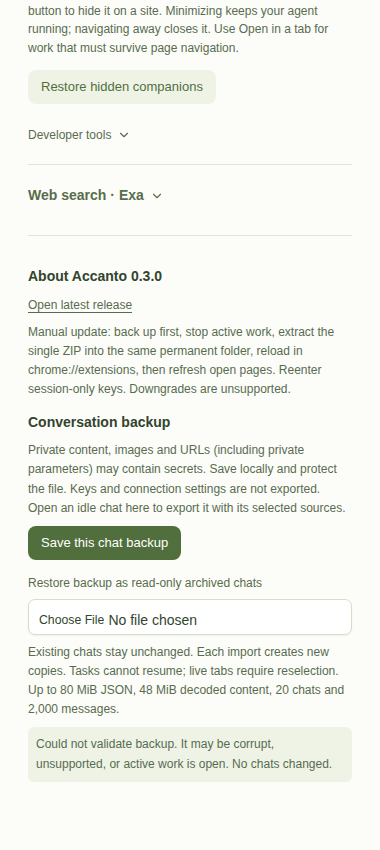
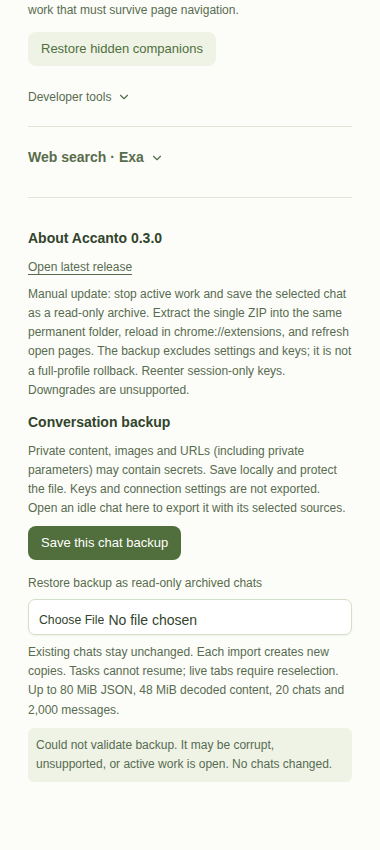
Polish archived chat reading and backup confirmation

diff --git a/backup-ui.js b/backup-ui.js
@@ -3,6 +3,8 @@ import { importArchives } from './archives.js';
 import { imageDimensions } from './attachments.js';
 import { readPdf } from './pdf-reader.js';
 
+const counted = (count, noun) => `${count} ${noun}${count === 1 ? '' : 's'}`;
+
 export async function inspectPortableSource({ kind, mime, bytes }) {
   if (kind === 'text') {
     const text = new TextDecoder('utf-8', { fatal: true }).decode(bytes);
@@ -61,7 +63,7 @@ export function backupUI({ embedded, currentId, busy, setBusy, snapshot, refresh
         const link = document.createElement('a');
         link.href = url; link.download = 'accanto-conversation.json'; link.click();
         setTimeout(() => URL.revokeObjectURL(url), 60000);
-        status(`Backup download ready: 1 conversation, ${chat.messages.length} messages, ${chat.sources.length} sources. Check browser downloads to confirm it was saved.`);
+        status(`Backup download ready: 1 conversation, ${counted(chat.messages.length, 'message')}, ${counted(chat.sources.length, 'source')}. Check browser downloads to confirm it was saved.`);
       });
     } catch (error) { status(error.message); }
   };
@@ -75,7 +77,8 @@ export function backupUI({ embedded, currentId, busy, setBusy, snapshot, refresh
         if (file.size > BACKUP_LIMITS.bytes) throw new Error('Backup exceeds 80 MiB.');
         pending = await validateBackup(JSON.parse(await file.text()), inspectPortableSource);
         const chats = pending.conversations;
-        status(`Ready: ${chats.length} conversations, ${chats.reduce((n, c) => n + c.messages.length, 0)} messages, ${chats.reduce((n, c) => n + c.sources.length, 0)} sources. Import as new read-only archives?`);
+        status(`Ready: ${counted(chats.length, 'conversation')}, ${counted(chats.reduce((n, c) => n + c.messages.length, 0), 'message')}, ${counted(chats.reduce((n, c) => n + c.sources.length, 0), 'source')}. Import as ${chats.length === 1 ? 'a new read-only archive' : 'new read-only archives'}?`);
+        $('import-backup').textContent = `Import ${counted(chats.length, 'archived chat')}`;
         $('confirm-import').hidden = false;
       });
     } catch { status('Could not validate backup. It may be corrupt, unsupported, or active work is open. No chats changed.'); }
@@ -90,9 +93,9 @@ export function backupUI({ embedded, currentId, busy, setBusy, snapshot, refresh
         const backup = pending, count = backup.conversations.length;
         await importArchives(backup);
         pending = undefined; $('confirm-import').hidden = true;
-        status(`Imported ${count} read-only archived conversations. Existing chats unchanged.`);
+        status(`Imported ${counted(count, 'read-only archived conversation')}. Existing chats unchanged.`);
         try { await refresh(); }
-        catch { status(`Imported ${count} read-only archived conversations. Open a new Accanto tab to refresh History.`); }
+        catch { status(`Imported ${counted(count, 'read-only archived conversation')}. Open a new Accanto tab to refresh History.`); }
       });
     } catch (error) { status(error.message); }
   };
@@ -102,25 +105,52 @@ export function renderArchive(chat) {
   const transcript = document.getElementById('transcript');
   transcript.classList.add('archived');
   transcript.replaceChildren();
+  const references = new Map(chat.sources.map((source, index) => [source.id, { name: source.name, anchor: `archived-source-${index}` }]));
+  const appendText = (element, text) => {
+    let offset = 0;
+    for (const match of text.matchAll(/\[([a-zA-Z0-9_-]+)\]/g)) {
+      const reference = references.get(match[1]);
+      if (!reference) continue;
+      element.append(document.createTextNode(text.slice(offset, match.index)));
+      const link = document.createElement('a');
+      link.textContent = `[${reference.name}]`; link.href = `#${reference.anchor}`;
+      link.onclick = event => { event.preventDefault(); document.getElementById(reference.anchor).scrollIntoView({ block: 'start' }); };
+      element.append(link); offset = match.index + match[0].length;
+    }
+    element.append(document.createTextNode(text.slice(offset)));
+  };
+  let activity, activityCount = 0;
   for (const m of chat.messages) {
+    const tool = m.role === 'toolResult' || m.role === 'assistant' && m.blocks.some(b => b.type === 'text' && b.text.startsWith('Tool: '));
+    if (tool && !activity) {
+      activity = document.createElement('details'); activity.className = 'turn-activity';
+      activity.append(document.createElement('summary')); transcript.append(activity);
+      activityCount = 0;
+    } else if (!tool) activity = undefined;
     const article = document.createElement('article');
-    article.className = m.role;
-    const label = document.createElement('strong'); label.textContent = m.role;
+    article.className = tool ? 'activity' : m.role;
+    const label = document.createElement('strong');
+    label.textContent = tool ? m.role === 'toolResult' ? 'Tool result' : 'Tool request' : m.role === 'user' ? 'You' : 'Pi Accanto';
+    if (!tool) label.className = 'message-label';
     article.append(label);
     for (const b of m.blocks) {
       if (b.type === 'text') {
-        const p = document.createElement('pre'); p.style.whiteSpace = 'pre-wrap'; p.textContent = b.text; article.append(p);
+        const p = document.createElement('pre'); p.style.whiteSpace = 'pre-wrap'; appendText(p, b.text); article.append(p);
       } else {
         const image = document.createElement('img');
         image.alt = 'Archived message image'; image.src = `data:${b.mime};base64,${b.data}`; image.style.maxWidth = '100%'; article.append(image);
       }
     }
-    transcript.append(article);
+    if (tool) {
+      activity.firstChild.textContent = `Archived activity · ${counted(++activityCount, 'record')}`;
+      activity.append(article);
+    } else transcript.append(article);
   }
   const heading = document.createElement('h2'); heading.textContent = 'Archived sources'; transcript.append(heading);
-  for (const source of chat.sources) {
+  for (const [index, source] of chat.sources.entries()) {
     const section = document.createElement('section');
-    const name = document.createElement('p'); name.textContent = `${source.name} [${source.id}]`; section.append(name);
+    section.id = `archived-source-${index}`;
+    const name = document.createElement('p'); name.textContent = source.name; section.append(name);
     if (source.kind === 'tab') {
       const note = document.createElement('p'); note.textContent = `${source.url} · Unavailable reference. Reselect the tab in a new chat.`; section.append(note);
     } else {
@@ -133,6 +163,8 @@ export function renderArchive(chat) {
       section.append(button);
       if (source.kind === 'pdf') {
         const page = document.createElement('input'); page.type = 'number'; page.min = '1'; page.max = String(source.pages); page.value = '1'; page.setAttribute('aria-label', `Physical page of ${source.name}`);
+        const pageControl = document.createElement('label'); pageControl.className = 'archive-page-control';
+        pageControl.append('Page ', page, ` of ${source.pages}`);
         const read = document.createElement('button'); read.type = 'button'; read.textContent = 'Read PDF page text';
         const output = document.createElement('pre'); output.style.whiteSpace = 'pre-wrap'; output.setAttribute('role', 'status');
         read.onclick = async () => {
@@ -140,12 +172,12 @@ export function renderArchive(chat) {
           try {
             const n = Number(page.value);
             if (!Number.isInteger(n) || n < 1 || n > source.pages) throw new Error('Choose a valid physical page.');
-            const result = await readPdf(decode(source.data, 16 * 1024 * 1024), n, AbortSignal.timeout(30000));
-            output.textContent = JSON.stringify(result, null, 2);
+            const result = await readPdf(decode(source.data, 16 * 1024 * 1024), n, AbortSignal.timeout(30000), { page_count: 1 });
+            output.textContent = result.pages.map(page => `Page ${page.page} of ${result.totalPages}\n${page.text || 'No native text on this page.'}${page.truncated ? '\nText limit reached; this page is only partially shown.' : ''}`).join('\n\n');
           } catch (error) { output.textContent = error.message; }
           finally { read.disabled = false; }
         };
-        section.append(page, read, output);
+        section.append(pageControl, read, output);
       }
       if (source.kind === 'image') {
         const details = document.createElement('details'), summary = document.createElement('summary'), image = document.createElement('img');

diff --git a/panel.html b/panel.html
@@ -57,7 +57,7 @@
       <section class="portable-section" aria-label="About and backups">
         <h2>About Accanto <span id="installed-version"></span></h2>
         <p><a href="https://github.com/lsj5031/pi-accanto/releases/latest" target="_blank" rel="noopener noreferrer">Open latest release</a></p>
-        <p>Manual update: back up first, stop active work, extract the single ZIP into the same permanent folder, reload in chrome://extensions, then refresh open pages. Reenter session-only keys. Downgrades are unsupported.</p>
+        <p>Manual update: stop active work and save the selected chat as a read-only archive. Extract the single ZIP into the same permanent folder, reload in chrome://extensions, and refresh open pages. The backup excludes settings and keys; it is not a full-profile rollback. Reenter session-only keys. Downgrades are unsupported.</p>
         <div id="portable-controls" hidden>
           <h2>Conversation backup</h2>
           <p>Private content, images and URLs (including private parameters) may contain secrets. Save locally and protect the file. Keys and connection settings are not exported. Open an idle chat here to export it with its selected sources.</p>
@@ -65,8 +65,8 @@
           <label for="backup-file">Restore backup as read-only archived chats</label>
           <input id="backup-file" type="file" accept=".json,application/json">
           <p>Existing chats stay unchanged. Each import creates new copies. Tasks cannot resume; live tabs require reselection. Up to 80 MiB JSON, 48 MiB decoded content, 20 chats and 2,000 messages.</p>
-          <div id="confirm-import" hidden><button type="button" id="import-backup">Import new archives</button><button type="button" id="cancel-import">Cancel</button></div>
           <p id="backup-status" role="status" aria-live="polite"></p>
+          <div id="confirm-import" hidden><button type="button" id="import-backup">Import archived chats</button><button type="button" id="cancel-import">Cancel</button></div>
         </div>
       </section>
       </div>

diff --git a/panel.css b/panel.css
@@ -95,8 +95,13 @@ svg { width: 18px; height: 18px; fill: none; stroke: currentColor; stroke-width:
 .portable-section a { text-decoration: underline; text-underline-offset: 3px; }
 #backup-status { padding: 8px; border-radius: 6px; background: var(--secondary); }
 #backup-status:empty { display: none; }
+#confirm-import { display: flex; flex-wrap: wrap; gap: 8px; margin-top: 10px; }
+#transcript.archived { padding-bottom: 40px; scroll-padding-bottom: 40px; }
 #transcript.archived section { padding: 12px 0; border-bottom: 1px solid var(--line); overflow-wrap: anywhere; }
 #transcript.archived pre { font: inherit; margin: 8px 0; }
+#transcript.archived a { text-decoration: underline; text-underline-offset: 3px; }
+.archive-page-control { display: flex; align-items: center; gap: 8px; margin: 12px 0 8px; }
+.archive-page-control input { width: 5em; padding: 6px 8px; border: 1px solid var(--border); border-radius: 6px; background: white; }
 #settings h2 { font-size: 14px; font-weight: 600; }
 :is(#settings, #search-settings) p { font-size: 12px; color: var(--muted); overflow-wrap: anywhere; margin-top: 7px; }
 #settings .access-heading { margin-top: 22px; padding-top: 18px; border-top: 1px solid var(--line); }

diff --git a/docs/verification/distribution.md b/docs/verification/distribution.md
@@ -113,7 +113,7 @@ deleted separately.
 
 ## Evidence
 
-Final Linux run on 2026-11-12 passed `npm run package`, release preparation and
+Baseline Linux run for `678a7c2` on 2026-11-12 passed `npm run package`, release preparation and
 checksum re-verification, `test:release` (3), existing `test:distribution` (4),
 `test:permissions` (2), `test:panel-state` (5), `test:identity` (1), and complete
 `test:fixtures`: browser controls, conversations, PDFs including visual/timeout
@@ -121,7 +121,7 @@ checks, research, companion, attachments/geometry, and portable schema (4) plus
 real Chromium restore. No required fixture was skipped. The PDF visual check
 completed in 38.87 seconds, including its deliberate 30-second timeout.
 
-Local candidate ZIP SHA-256, not a published asset:
+Baseline candidate ZIP SHA-256, not a published asset:
 
 ```text
 33c5e406fe6f3858a2d27b2afdb5ca1e0bb9752fbf035deedfee1c5e47939e10  pi-accanto-0.3.0.zip
@@ -178,6 +178,66 @@ visually. The local Playwright interaction trace is
 ![Local export success](distribution/backup-success.png)
 ![Safe unsupported-backup error](distribution/backup-error.png)
 ![Restored read-only history and sources](distribution/restored-archive.png)
+
+## Independent review corrections
+
+Independent screenshot review of `678a7c2` identified real archive/Settings UX
+issues. This follow-up is limited to presentation and copy. The portable schema,
+stored source IDs and bytes, atomic import, credential exclusions, release
+workflow and normal composer behavior are unchanged. The scripted fixture's
+“Run check” composer text is intentional test data, not a product defect.
+No Delete control was added; deletion remains outside this scoped correction.
+
+| Before | After | Why |
+| --- | --- | --- |
+| Counts below adjacent action buttons, “1 conversations” | Summary above 8px-spaced actions; “Import 1 archived chat”; singular/plural counts | Review the import before committing |
+| Raw roles, fixture tool names and source UUID headings | Normal message styling, collapsed “Archived activity”, source names | History should read like a chat, not a database dump |
+| Citation IDs without usable source navigation | Known bracketed IDs become named, local source links using text nodes | Preserve stored citation mapping without HTML execution or external fetches |
+| PDF output shown as JSON and unlabeled number input | Plain “Page 2 of 2” text and visible “Page [2] of 2” control | Make source reading understandable |
+| Unproven archive bottom clearance | Explicit 40px bottom padding and scroll proof | Final source controls must remain reachable above the footer |
+| “Back up first” could imply profile recovery | Selected chat becomes a read-only archive, excluding settings/keys; not full-profile rollback | State the actual update recovery contract |
+
+Unknown citation text is retained verbatim rather than inventing a mapping.
+Tool text remains accessible by deliberately expanding its activity group.
+Source names are inserted as text, not interpreted as markup, and stored IDs
+remain unchanged. Archived PDF reads now request one physical page at a time;
+the existing PDF reader and live-model tools are not modified.
+The plain-text view retains an explicit partial-page warning when the existing
+text limit is reached; the fixture verifies that warning on a 17,000-character
+page before reading the next physical page.
+
+The existing focused Chromium fixture was extended to assert both one- and
+two-chat confirmation wording, summary/action geometry, button spacing, collapsed
+activity, named citation navigation with original IDs intact, page-two plain PDF
+text, visible page controls, and the actual archive scroll boundary. At the
+bottom it expands the final source, verifies 40px clearance and downloads the
+unchanged PNG bytes. Existing fresh-identity restore, duplicate import, malicious
+input, zero-network and rollback assertions remain.
+
+Final follow-up checks passed:
+
+```sh
+npm run package
+npm run test:portable
+npm run test:release
+npm run release:prepare -- v0.3.0 --verify
+git diff --check
+```
+
+Portable schema checks: 4 passed, plus the real Chromium UI fixture.
+Release checks: 3 passed, including offline publication reruns.
+The complete fixture suite was not repeated for this scoped correction; its
+baseline results above are historical, not a claim of a new full-suite run.
+Regenerated confirmation, archive and bottom screenshots were inspected visually.
+The local interaction trace was regenerated but is not committed.
+
+Follow-up candidate checksum, still not published:
+
+```text
+b86ebd4cb9c7087afdd68179de41d3d2d2115d27e84a043ed6f614f3d069dd8f  pi-accanto-0.3.0.zip
+```
+
+![Expanded final source at the padded archive bottom](distribution/archive-bottom.png)
 
 Linux Playwright is the verified platform. Windows native permission/desktop
 tests were not run. No mutation-test tool is installed in this environment, so

diff --git a/README.md b/README.md
@@ -131,6 +131,8 @@ Select **dist**, not the project folder. Loading the source folder shows build
 instructions rather than starting the assistant.
 
 Before updating, save backups of your chats (below) and stop all active work.
+Each backup saves only the selected chat as a read-only archive, without settings
+or keys. It is not a full-profile rollback.
 Settings shows the installed version and an **Open latest release** link.
 Nothing checks for updates or downloads code in the background.
 Keep the installed folder where it is. To update a download, verify its checksum and extract the new
